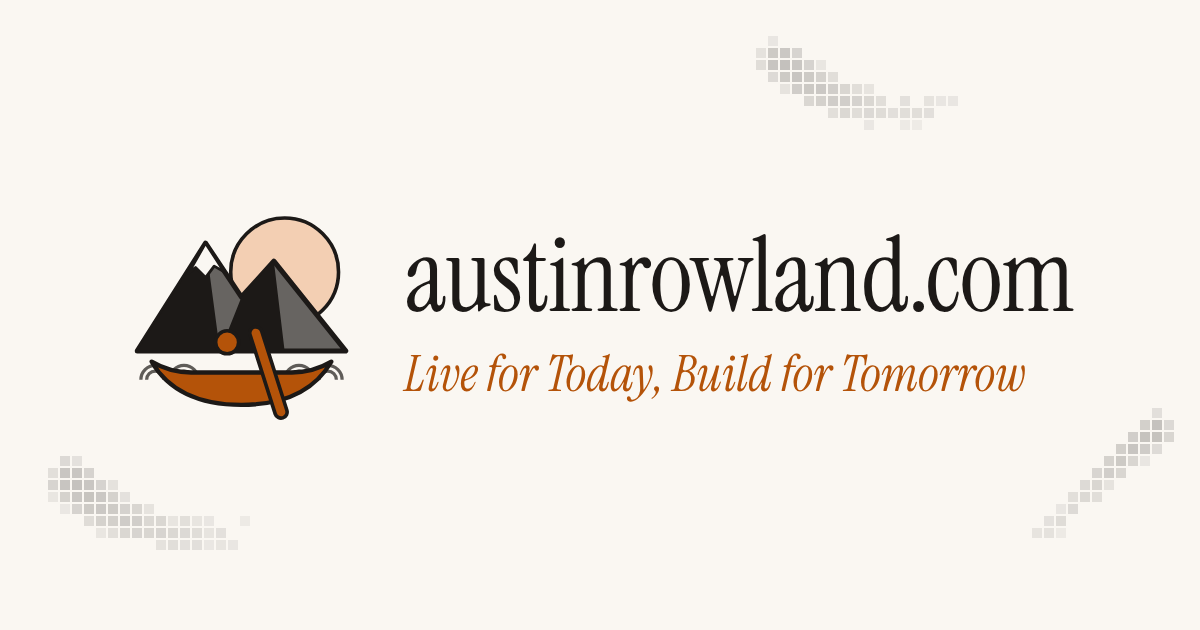
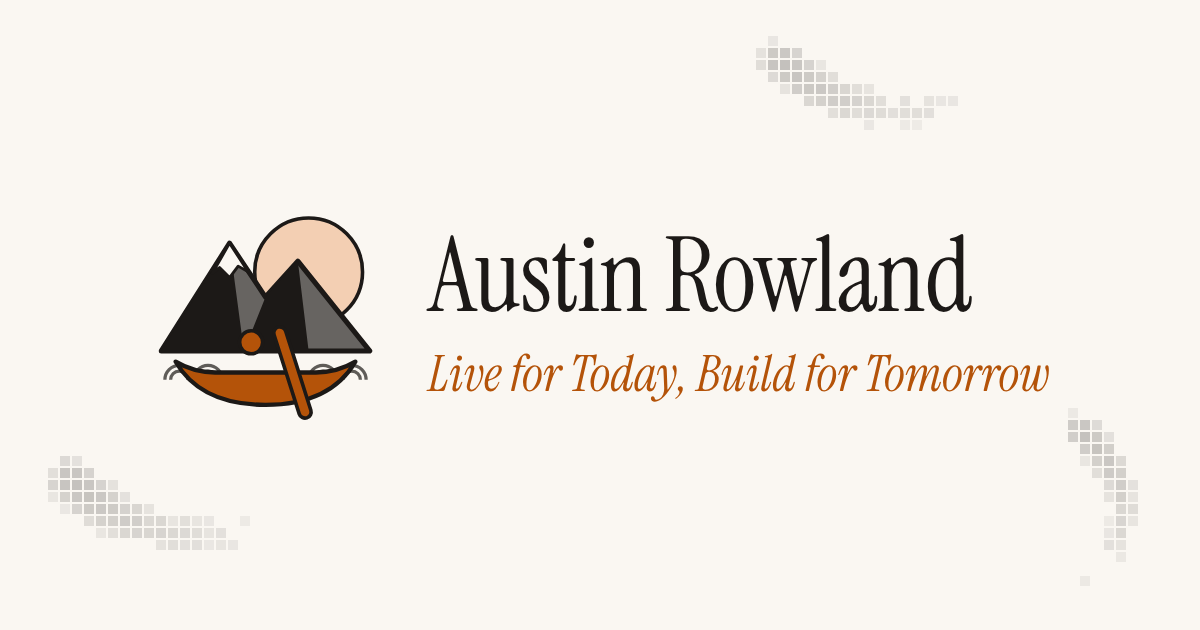
Social preview: Austin Rowland name, curvier koi; redirect www and http to https://austinrowland.com

diff --git a/worker/index.ts b/worker/index.ts
@@ -5,6 +5,8 @@ import { agentHeaders, decodePath, markdownTokens, notFoundPath, planRequest, re
 // austinrowland.com shows a placeholder until SITE_LIVE is "true" in wrangler.jsonc; staging on
 // workers.dev and Preview URLs always serve the full site.
 const LAUNCH_HOSTS = new Set(["austinrowland.com", "www.austinrowland.com"]);
+// www and plain http links land on the one address search engines should index.
+const CANONICAL_ORIGIN = "https://austinrowland.com";
 
 const PLACEHOLDER = `<!doctype html>
 <html lang="en">
@@ -34,6 +36,9 @@ const CONDITIONAL_HEADERS = ["if-match", "if-none-match", "if-modified-since", "
 
 export default {
   async fetch(request, env) {
+    const requested = new URL(request.url);
+    if (LAUNCH_HOSTS.has(requested.hostname) && requested.origin !== CANONICAL_ORIGIN)
+      return Response.redirect(CANONICAL_ORIGIN + requested.pathname + requested.search, 301);
     if (LAUNCH_HOSTS.has(new URL(request.url).hostname) && env.SITE_LIVE !== "true") return placeholder(request);
     const url = new URL(request.url);
     const moved = redirectFor(decodePath(request.url));
